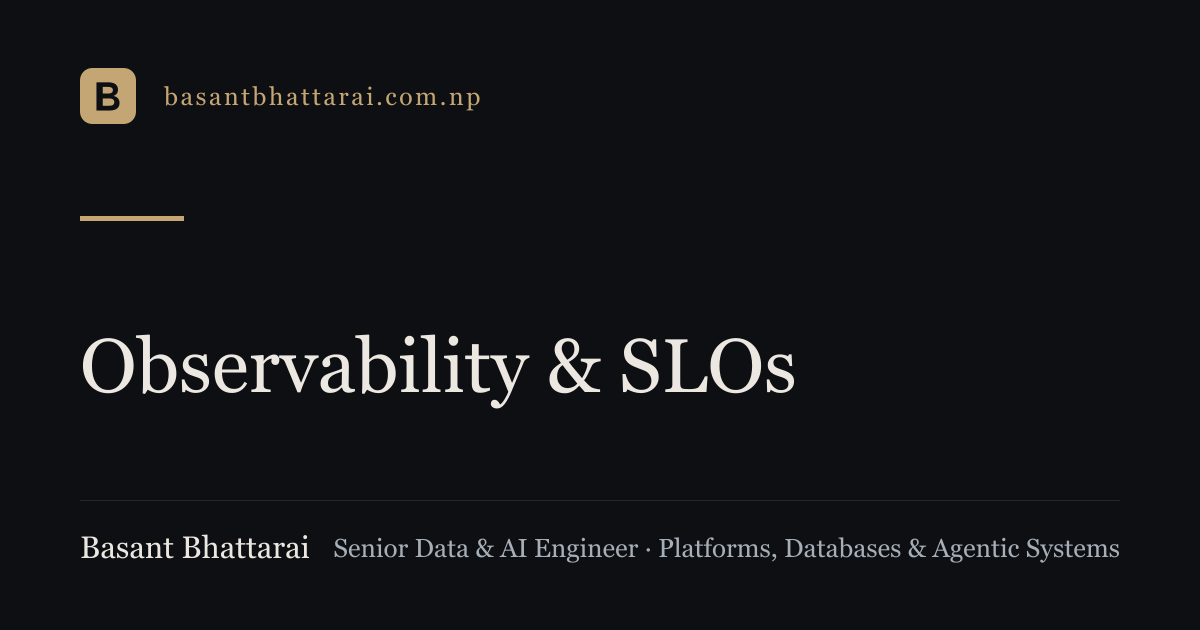
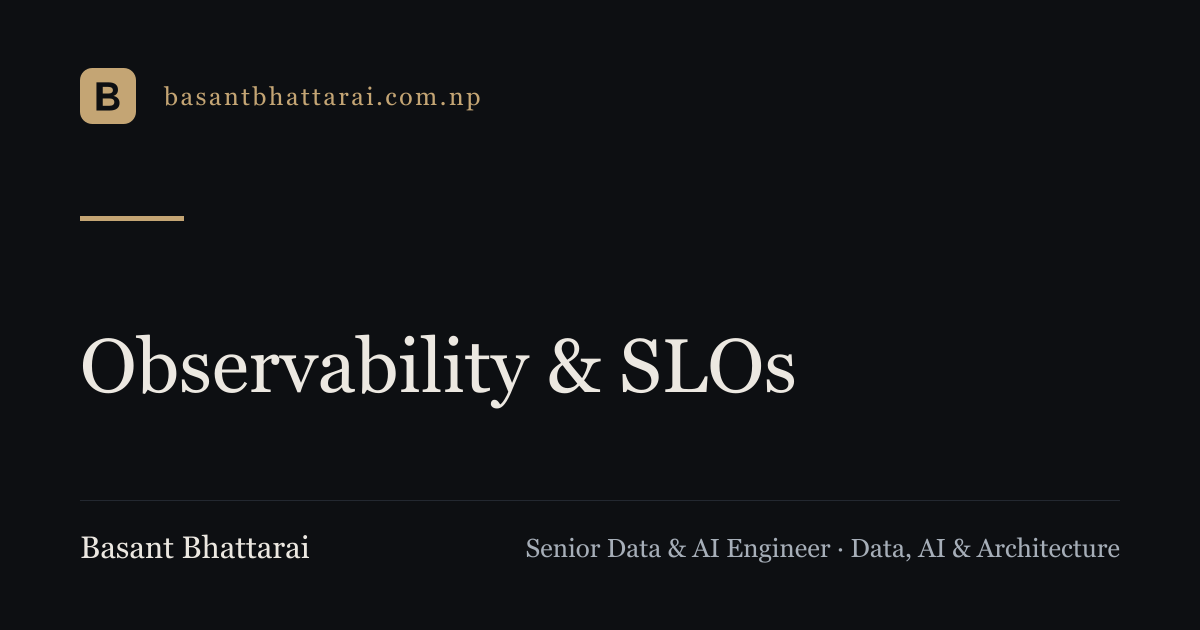
Say data, AI and system architecture wherever the role is stated
The site described two pillars, data platforms and agents. The practice is
hired for three, so the role now reads "Senior Data & AI Engineer · Data
Platforms, AI Systems & Architecture" in _config.yml, JSON-LD, page titles
and llms.txt, and the social cards were regenerated. The card carries a
shorter role line because the full one ran into the name at 26px.

- Home: the hero names all three; the hired-for band is data platforms (and
  their databases), AI systems on production data, and architecture with
  the recovery path designed first. The CTAs stay inside the first viewport
  at every breakpoint from 320 to 1440.
- About gains the architecture paragraph; Work's headline and meta follow.
- llms.txt states the publication boundary as it now is: mechanisms, staging
  measurements and ratios from employer work, never customer data, internal
  scale or identifiers.
- Availability re-dated. cv/ is excluded from the build and ignored by git:
  this repo is public and the CV seeds carry detail rake privacy rejects.

Changed region(s): [[0.2775, 0.8444, 0.925, 0.9048]]

diff --git a/scripts/gen-og.py b/scripts/gen-og.py
@@ -30,7 +30,10 @@ LINE = "#232830"
 
 SITE = "basantbhattarai.com.np"
 NAME = "Basant Bhattarai"
-ROLE = "Senior Data & AI Engineer · Platforms, Databases & Agentic Systems"
+# Shorter than site.author.role on purpose: it shares a 1040px baseline with
+# NAME, and the full "· Data Platforms, AI Systems & Architecture" string ran
+# into the name at 26px. Same three pillars, fewer characters.
+ROLE = "Senior Data & AI Engineer · Data, AI & Architecture"
 
 # The brass B, as a path so no font is involved in the mark itself.
 B_PATH = (
@@ -43,8 +46,8 @@ B_PATH = (
 # filename -> title lines (1 or 2). Keep each line under ~24 characters so it
 # clears the 1040px content column at 76px Georgia.
 CARDS: dict[str, list[str]] = {
-    "og-default.png": ["Data & AI platform", "engineering"],
-    "og-default-v3.png": ["Data & AI platform", "engineering"],
+    "og-default.png": ["Data platforms, AI", "& system architecture"],
+    "og-default-v3.png": ["Data platforms, AI", "& system architecture"],
     "og-spark.png": ["Apache Spark"],
     "og-streaming.png": ["Kafka & streaming"],
     "og-lakehouse.png": ["Iceberg &", "the lakehouse"],

diff --git a/index.md b/index.md
@@ -2,20 +2,23 @@
 layout: home
 permalink: /
 title: Basant Bhattarai
-last_modified_at: 2026-08-17
+last_modified_at: 2026-10-03
 seo_title: "Basant Bhattarai — Senior Data & AI Engineer"
-description: "Senior Data & AI Engineer. Nine years building data platforms, running the databases underneath them, and putting agents into production against both."
+description: "Senior Data & AI Engineer. Nine years across data platforms and their databases, AI systems in production, and the system architecture that connects them."
 sitemap:
   changefreq: weekly
   priority: 1.0
 hero:
   intro: "Hello, I’m Basant Bhattarai."
-  # Just the role. The full "· Platforms, Databases & Agentic Systems" string
+  # Just the role. The full "· Data Platforms, AI Systems & Architecture" string
   # wrapped to two lines above the H1 and restated what the H1 and lede already
   # say. It still carries in the <title>, JSON-LD and llms.txt, where it is read
   # out of context and needs the qualifier.
   eyebrow: "Senior Data & AI Engineer"
-  h1: "I design data platforms, and the agentic systems that run on them."
+  # "…and the agentic systems that run on them" named two of the three things
+  # the practice is hired for. Architecture is the third, and the one a
+  # reviewer cannot infer from a stack list. +5 characters; e2e-hero re-run.
+  h1: "I design data platforms, AI systems, and the architecture between them."
   # The previous lede read "Kafka, Spark and Iceberg on one side; LangGraph,
   # Google ADK and MCP on the other" — an inventory, and one that framed the two
   # stacks as separate in the same breath as claiming they were integrated. The
@@ -62,9 +65,20 @@ work:
   label: "Selected work"
   # "…with measured outcomes" described the page rather than the work. The cards
   # below already carry the numbers; the headline should carry the claim.
-  headline: "Six systems, and the decisions that kept them running."
+  headline: "Six systems across data, AI and architecture, and the decisions that kept them running."
   more: "View all work"
   more_url: /work/
+  # Curated by slug, one per register: employer practice (data, then AI),
+  # consulting, open source, independent product, measured lab. Everything
+  # else — including ClickHomes, which the README keeps to /work/ — is one click
+  # away. A slug that does not resolve is skipped, so check the build.
+  selected:
+    - data-platform-practice
+    - governed-ai-delivery
+    - consulting-short-text-and-alerting
+    - spark-sql-kinesis
+    - clinic-records-ocr
+    - multi-engine-ha-lab
 
 writing:
   label: "Start here"
@@ -81,9 +95,13 @@ writing:
   #
   # An explicit list fixes the shop window without touching a single date. Slugs,
   # so a rename fails loudly at build rather than silently dropping a row.
+  #
+  # One slot per register the site is hired for: applied-ML evaluation (a
+  # measurement that withdrew its own plan), agent governance, and the
+  # lakehouse. "Ten CI gates" stays one click away as part two of the series.
   spotlight:
+    - ocr-measurement-withdrew-the-plan
     - coding-agents-repo-governance
-    - agents-in-a-real-repository
     - trino-iceberg-polaris-lakehouse-spine
 
 contact:

diff --git a/_pages/about.md b/_pages/about.md
@@ -1,9 +1,9 @@
 ---
 title: About
-last_modified_at: 2026-08-17
-seo_title: "About Basant Bhattarai — Data Platforms, Databases & Agentic Systems"
+last_modified_at: 2026-10-03
+seo_title: "About Basant Bhattarai — Data Platforms, AI Systems & Architecture"
 eyebrow: Profile
-headline: "I design data platforms, and the agentic systems that write into them."
+headline: "I design data platforms, the AI systems that write into them, and the architecture that keeps both recoverable."
 hero_code: "OPERATE / OWN"
 page_class: page-about
 permalink: /about/
@@ -14,6 +14,8 @@ lede: "Nine years that started with backend services and PostgreSQL schemas, and
 I am a Senior Data & AI Engineer. The job arrived in that order. First Python services and PostgreSQL schemas; then the databases those services leaned on, which is where I learned that most outages are a storage decision made two years earlier; then the platform around them — Kafka ingestion, Spark processing, Airflow orchestration, lakehouse modeling, analytical serving.
 
 Agents came last and belong to the same stack. The interesting part was never the orchestration framework. It was the boundary: what a model is allowed to write, what validates it, what happens on the second attempt, and how you compare today's answer to last week's. I work close to system internals — throughput and failure limits, recovery paths, observability, and cost before scale turns an architectural shortcut into an operational one.
+
+Architecture is what ties the two together, and it is most of what I am asked to review: where state lives, which operations are idempotent, what a second delivery does, and how a system degrades when a dependency is slow. I write those down as decisions next to the alternative I rejected, so the next person can disagree with a reason rather than a hunch. The same habit shows up outside the day job — in [a connector I maintain in the open](/work/spark-sql-kinesis/), in consulting work, and in [products I build end to end](/work/).
 
 
 ## Operating principles
@@ -29,7 +31,7 @@ Agents came last and belong to the same stack. The interesting part was never th
 
 At UXCam I work across the data platform and the stores underneath it: processing, serving, database reliability, governance, and architecture review. I also own the production agent workflows — LangGraph and Google ADK for orchestration, MCP for the tool surface — with the same requirement as any other producer: what they emit lands in the governed stores, typed and reviewable, or it does not land.
 
-Outside that I keep a multi-engine failover lab with restartable scenarios, published commands and measured outcomes, and I build an independent product where I own every layer from the schema and API to the deployment.
+Outside that I keep a multi-engine failover lab with restartable scenarios, published commands and measured outcomes. I build independent products where I own every layer from the schema and API to the deployment: an agent that does its work on the user's own machine, and a records system for small outpatient clinics whose OCR accuracy I measure before I promise it.
 
 *Updated {{ site.data.availability.updated | date: "%B %Y" }}.*
 

diff --git a/README.md b/README.md
@@ -8,7 +8,8 @@ Live: [basantbhattarai.com.np](https://basantbhattarai.com.np)
 - Authority over decoration — outcomes and ownership, not tool laundry lists
 - ClickHomes appears only under **Work** (`/projects/`)
 - Consulting availability is on **About** only — not the landing page
-- CV source of truth: `realestate/cv/` (kept out of this repo)
+- CV source of truth: `cv/` (local copy of `realestate/cv/`; not committed, because this repo is public and the seeds carry employer detail)
+- Job apply agent (standalone): `/Users/basant/personal_projects/job-apply-agent`
 
 ## Local
 
@@ -35,9 +36,16 @@ Or: `./scripts/serve.sh`
 | `_pages/` | About, Experience, Skills, Work |
 | `_posts/` | Published essays and reproducible tutorials |
 | `_drafts/` | Unfinished outlines; excluded from the default preview |
+| `scripts/gen-cover-diagram.py` | Schematic cover masters; `python3 scripts/gen-cover-diagram.py <name>` |
 
 `make serve` previews the same finished writing readers will see. Use
 `make serve-drafts` only while editing unfinished outlines.
+
+Pieces drawn from employer production work go in the `production-notes`
+series and are published only once cleared. They describe mechanisms, staging
+measurements and ratios — never customer data, internal scale or identifiers
+(`rake privacy` and the boundary stated in `llms.txt`). Uncleared pieces wait
+in `_drafts/`.
 
 Run `make content` before publishing, then push `master` to publish on GitHub
 Pages.

diff --git a/_pages/work.md b/_pages/work.md
@@ -1,12 +1,12 @@
 ---
 title: Selected work
-last_modified_at: 2026-08-14
-seo_title: "Data Platform, Database & Agentic AI Case Studies — Basant Bhattarai"
+last_modified_at: 2026-10-03
+seo_title: "Data Platform, AI Systems & Architecture Case Studies — Basant Bhattarai"
 eyebrow: Case studies
-headline: "Data platforms, databases, and agentic systems built for production."
+headline: "Data platforms, AI systems, and the architecture that keeps them running."
 layout: work-index
 permalink: /work/
-description: "Case studies across data platforms, database lifecycle operations, system architecture, and agentic systems running in production."
+description: "Case studies across data platforms, AI systems and system architecture: employer practice, consulting, open source, independent products and measured labs."
 # `detail` used to be a row of tool names per capability — four boxes of logos,
 # which is the pattern a concrete result statement beats every time. Each line
 # now says what the capability actually covers. The tools are on the résumé and

diff --git a/_pages/writing.md b/_pages/writing.md
@@ -1,7 +1,7 @@
 ---
 title: Writing
-last_modified_at: 2026-08-14
-seo_title: "Data Platforms, Databases & Agentic Systems Writing — Basant Bhattarai"
+last_modified_at: 2026-10-03
+seo_title: "Data Platforms, AI Systems & Architecture Writing — Basant Bhattarai"
 eyebrow: Field notes
 headline: "Notes from systems that had to keep working."
 layout: writing-index

diff --git a/_pages/hire.md b/_pages/hire.md
@@ -1,6 +1,6 @@
 ---
 title: Work with me
-last_modified_at: 2026-08-17
+last_modified_at: 2026-10-03
 seo_title: "Data Platform, Database & Agentic AI Consulting — Basant Bhattarai"
 eyebrow: Consulting
 headline: "Bring me the platform, the database, or the agentic system that has to work in production."
